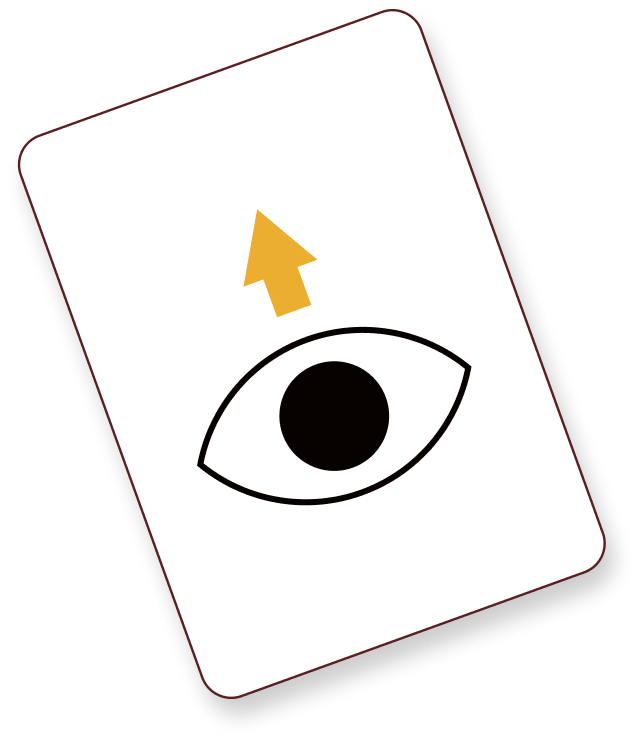
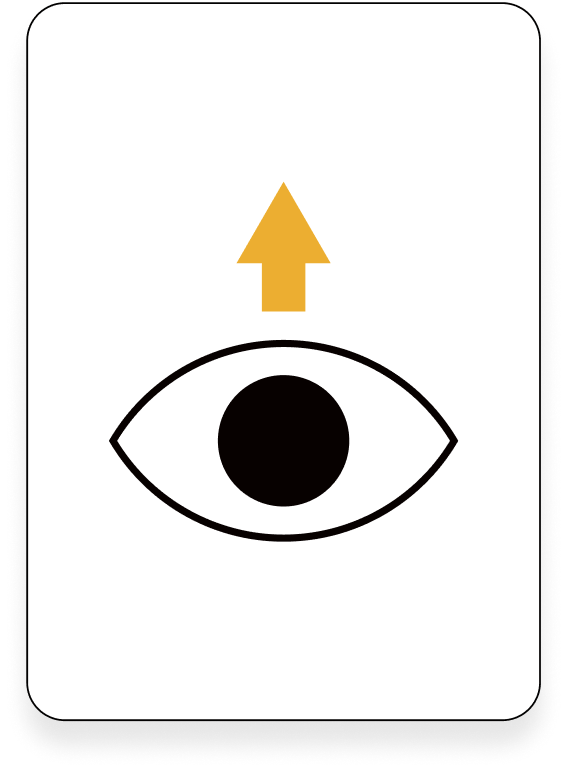
cambio cards section 3 card 2

diff --git a/app/sections/ThirdSection.jsx b/app/sections/ThirdSection.jsx
@@ -58,8 +58,8 @@ export const ThirdSection = () => {
           <div onMouseOver={() => setAnimarCard2(true)} onMouseOut={() => setAnimarCard2(false)} style={{gap: '8px', display: 'flex', flexDirection: 'column', justifyContent: 'flex-end', gridArea: 'area2', backgroundColor: '#FF8283', borderRadius: '16px', padding: '24px'}}>
             <h3 style={{fontWeight: '600', fontSize: '16px', color: '#5A2020'}}>AGILIDAD</h3>
             <p style={{fontWeight: '400', fontSize: '12px', color: '#5A2020'}}>Las cartas especiales te pueden dar una gran ventaja sobre tus competidores, dales caña robando sus cartas!</p>
-            <Image className="card2" src="/thirdSectionImages/card2_2.png" alt="carta" width={500} height={500} style={{transition: 1, objectFit: 'contain', position: 'absolute', width: '157px', height: '179px', left: '55%', top: '-40px', transform: animarCard2 ? 'rotate(8deg)' : null}} />
-            <Image className="card2" src="/thirdSectionImages/card2_1.png" alt="carta" width={500} height={500} style={{transition: 1, objectFit: 'contain', position: 'absolute', width: '157px', height: '179px', left: '40%', top: '-40px', transform: animarCard2 ? 'rotate(8deg)' : null}} />
+            <Image className="card2" src="/thirdSectionImages/card2_2.png" alt="carta" width={500} height={500} style={{transition: 1, objectFit: 'contain', position: 'absolute', width: '157px', height: '179px', left: '55%', top: '-40px', transform: animarCard2 ? 'rotate(27deg)' : 'rotate(19.86deg)' }} />
+            <Image className="card2" src="/thirdSectionImages/card2_1.png" alt="carta" width={500} height={500} style={{transition: 1, objectFit: 'contain', position: 'absolute', width: '157px', height: '179px', left: '40%', top: '-40px', transform: animarCard2 ? 'rotate(-5deg)' : 'rotate(-13.38deg)' }} />
           </div>
 
           <div onMouseOver={() => setAnimarCard3(true)} onMouseOut={() => setAnimarCard3(false)} style={{gap: '8px', display: 'flex', flexDirection: 'column', justifyContent: 'flex-end', gridArea: 'area3', backgroundColor: '#7ABDEC', borderRadius: '16px', padding: '24px'}}>

diff --git a/app/sections/ThirdSectionMobile.jsx b/app/sections/ThirdSectionMobile.jsx
@@ -102,8 +102,8 @@ export const ThirdSectionMobile = () => {
                     <div className="thirdSectionMobileCard" style={{transition: '.5s ease-in-out', backgroundColor: '#FF8283', top: scrollPercentage < 20 ? 460 : 0 }}>
                         <h3 style={{color: '#5A2020'}}>AGILIDAD</h3>
                         <p style={{color: '#5A2020'}}>Las cartas especiales te pueden dar una gran ventaja sobre tus competidores, dales caña robando sus cartas!</p>
-                        <Image src="/thirdSectionImages/card2_2.png" style={{transition: '.5s ease-in-out', position: 'absolute', width: '204px', height: 'auto', objectFit: 'contain', left: '35%', bottom: '50px', transform: `rotate(${animCard >= 2 ? 8 : -20}deg)`}} alt="mazo" width={500} height={500} />
-                        <Image src="/thirdSectionImages/card2_1.png" style={{transition: '.5s ease-in-out', position: 'absolute', width: '204px', height: 'auto', objectFit: 'contain', left: '10%', bottom: '55px', transform: `rotate(${animCard >= 2 ? 8 : -20}deg)`}} alt="mazo" width={500} height={500} />
+                        <Image src="/thirdSectionImages/card2_2.png" style={{transition: '.5s ease-in-out', position: 'absolute', width: '150px', height: 'auto', objectFit: 'contain', left: '45%', bottom: '50px', transform: `rotate(${animCard >= 2 ? 13 : 3}deg)`}} alt="mazo" width={500} height={500} />
+                        <Image src="/thirdSectionImages/card2_1.png" style={{transition: '.5s ease-in-out', position: 'absolute', width: '150px', height: 'auto', objectFit: 'contain', left: '18%', bottom: '50px', transform: `rotate(${animCard >= 2 ? -20 : -30}deg)`}} alt="mazo" width={500} height={500} />
                     </div>
                     <div className="thirdSectionMobileCard" style={{transition: '.5s ease-in-out',backgroundColor: '#7ABDEC', top: scrollPercentage < 30 ? interpolar(20, 30, 480, 460) : 0}}>
                         <h3 style={{color: '#225274'}}>MEMORIA</h3>

diff --git a/app/sections/SecondSection.jsx b/app/sections/SecondSection.jsx
@@ -41,7 +41,7 @@ export const SecondSection = () => {
 
   //logica animacion entrada textos
   const { ref, inView } = useInView({
-    threshold: width >= 835 ? 1 : 0.1,
+    threshold: 0.7,
     triggerOnce: true,
   });
 
@@ -99,11 +99,11 @@ export const SecondSection = () => {
     
 
     return (
-        <section id="secondSection">
-            <h2 ref={ref} style={{opacity: inView ? 1 : 0}} id="secondSectionH2">JUGANDO,<br />LA VIDA ES<br />MÁS BACANA.</h2>
+        <section ref={ref} id="secondSection">
+            <h2 style={{opacity: inView ? 1 : 0}} id="secondSectionH2">JUGANDO,<br />LA VIDA ES<br />MÁS BACANA.</h2>
             
 
-            <h2 ref={ref} style={{ opacity: inView ? 1 : 0 }} id="secondSectionH2Mobile">
+            <h2 style={{ opacity: inView ? 1 : 0 }} id="secondSectionH2Mobile">
               JUGANDO,<br />LA VIDA ES MÁS<br />BACANA.
             </h2>
 
